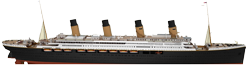
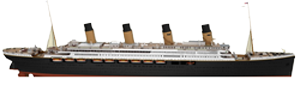
Endret størrelse på båter

diff --git a/csub/csub/Class1.cs b/csub/csub/Class1.cs
@@ -1,0 +1,18 @@
+using System;
+using System.Collections.Generic;
+using System.Linq;
+using System.Text;
+using System.Threading.Tasks;
+
+namespace csub
+{
+    class Class1
+    {
+
+        public void playExplosionSound (){
+        Console.Beep(783, 1*2);
+        }
+
+
+    }
+}
